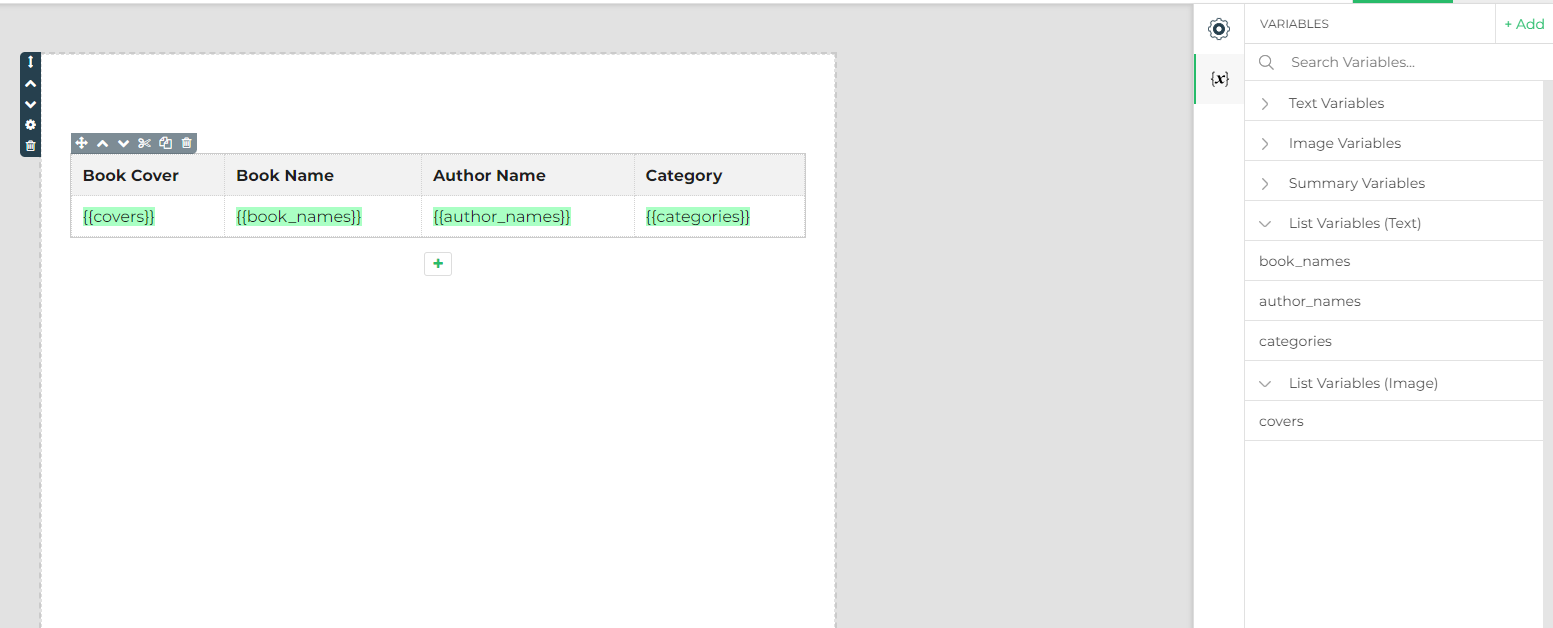
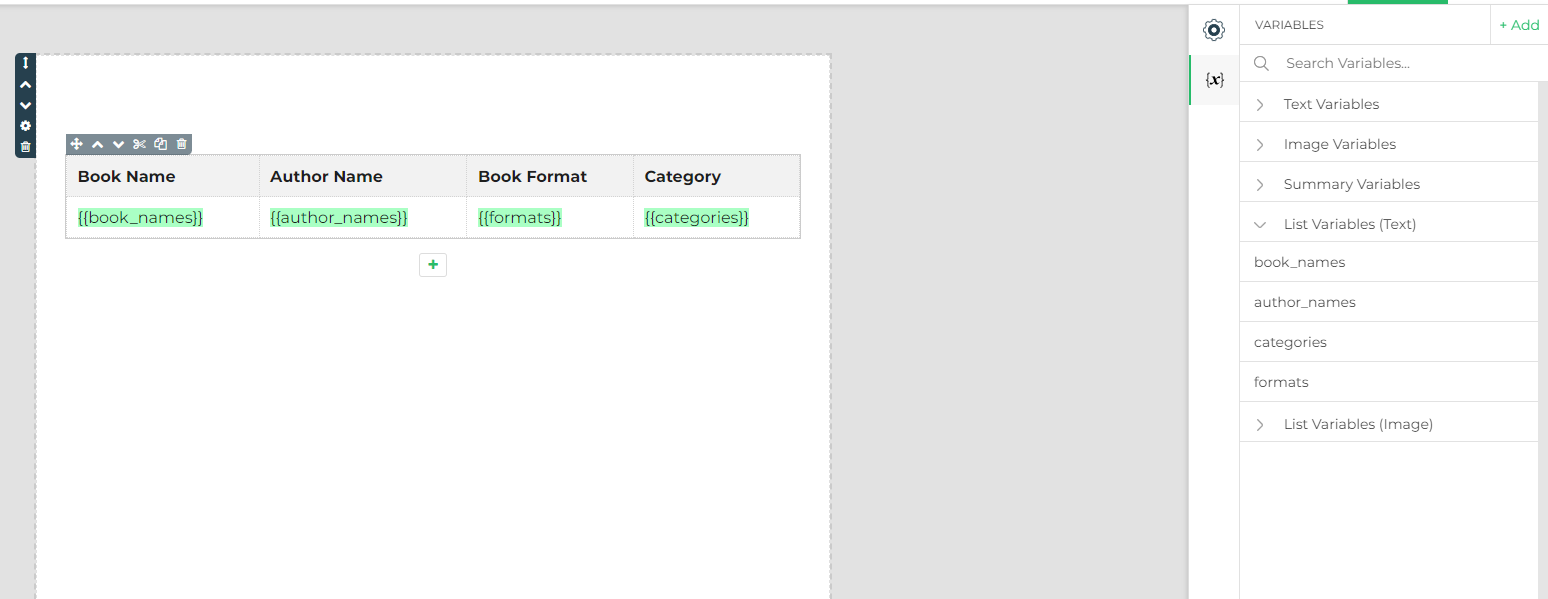
PDF article

diff --git a/docs/pdf-creator-concepts/dynamic_table.md b/docs/pdf-creator-concepts/dynamic_table.md
@@ -6,3 +6,56 @@ import Thumbnail from '@site/src/components/Thumbnail';
 
 # Dynamic Table
 
+Standard tables do not exhibit the property to add more rows dynamically as per the data selected. Hence, DronaHQ provides the dynamic table component that enables the addition of multiple rows at run time. The Dynamic tables are easily customizable and allow you to add multi-select data using the `List variables`. The `List variables` can be of type text or image.
+
+## Building a sample app
+
+### Creating PDF Template
+
+Create a new pdf template, inside the template editor add a `dynamic table` component and add some columns. For each column you add, create a corresponding list variable for it. Now add those variables to the `dynamic table` accordingly. Save and publish the template.
+
+<figure>
+  <Thumbnail src="/img/pdf-creator-concepts/dynamic-table/pdf-editor-dynamic-table-list-variables.png" alt="Creation of dynamic table and list variables" />
+  <figcaption align='center'><i>Creation of dynamic table and list variables</i></figcaption>
+</figure>
+
+### App UI Configuration
+
+Drag and drop a form repeat control and add the required fields to it. For demonstration we have taken book name(text input), author name(text input), categories(dropdown), book format(checkboxes) and a button `Generate Books Report` which will generate the pdf. 
+
+<figure>
+  <Thumbnail src="/img/pdf-creator-concepts/dynamic-table/app-setup-books-form.png" alt="Form UI - Book Details" />
+  <figcaption align='center'><i>Form UI - Book Details</i></figcaption>
+</figure>
+
+### Developing business logic
+
+Upon `button_click` event of the `Generate Books Report`, add a `Generate PDF` action and select the pdf template we created earlier. Appropriately configure variable fields with input controls as shown below.
+
+<figure>
+  <Thumbnail src="/img/pdf-creator-concepts/dynamic-table/generate-pdf-action-configuration.png" alt="Generate PDF Action Configuration" />
+  <figcaption align='center'><i>Generate PDF Action Configuration</i></figcaption>
+</figure>
+
+Continue and add a variable which will hold the generated pdf's link
+
+<figure>
+  <Thumbnail src="/img/pdf-creator-concepts/dynamic-table/generate-pdf-link-variable.png" alt="Generate PDF Action Configuration" />
+  <figcaption align='center'><i>Generate PDF Action Configuration</i></figcaption>
+</figure>
+
+Now add `Open URL` action on to the succes branch of `Generate PDF` action, and in the URL field give reference to the link variable we created inside the `Generate PDF` action.
+
+<figure>
+  <Thumbnail src="/img/pdf-creator-concepts/dynamic-table/open-url-action-configuration.png" alt="Open PDF Link using Open URL action" />
+  <figcaption align='center'><i>Open PDF link using Open URL action</i></figcaption>
+</figure>
+
+### App Preview
+
+Enter the book details and click on `Generate Books Report`, this will open the generated pdf in a new broswer tab.
+
+<figure>
+  <Thumbnail src="/img/pdf-creator-concepts/dynamic-table/generated-pdf-report.png" alt="Generated pdf" />
+  <figcaption align='center'><i>Generated pdf having book details</i></figcaption>
+</figure>

diff --git a/docs/pdf-creator-concepts/using_summary_variable.md b/docs/pdf-creator-concepts/using_summary_variable.md
@@ -6,7 +6,9 @@ import Thumbnail from '@site/src/components/Thumbnail';
 
 # Using Summary Variable
 
-In pdf template, a `summary` variable is used to pass the DronaHQ's `summary` control value to the pdf template which can then be displayed inside the template using `summary` component.
+Let us consider a scenario, where you want to embed summarized report inside a pdf. To make a summarized report within DronaHQ app, summary control can be used, which holds input field data from different pages. 
+
+Inside the pdf template, a `summary` variable and a `summary` component needs to be added. The `summary` variable will pass the `summary` control's data to the `summary` component. The `summary` component can then render that data in a tabular format.
 
 ## Building a sample app
 
